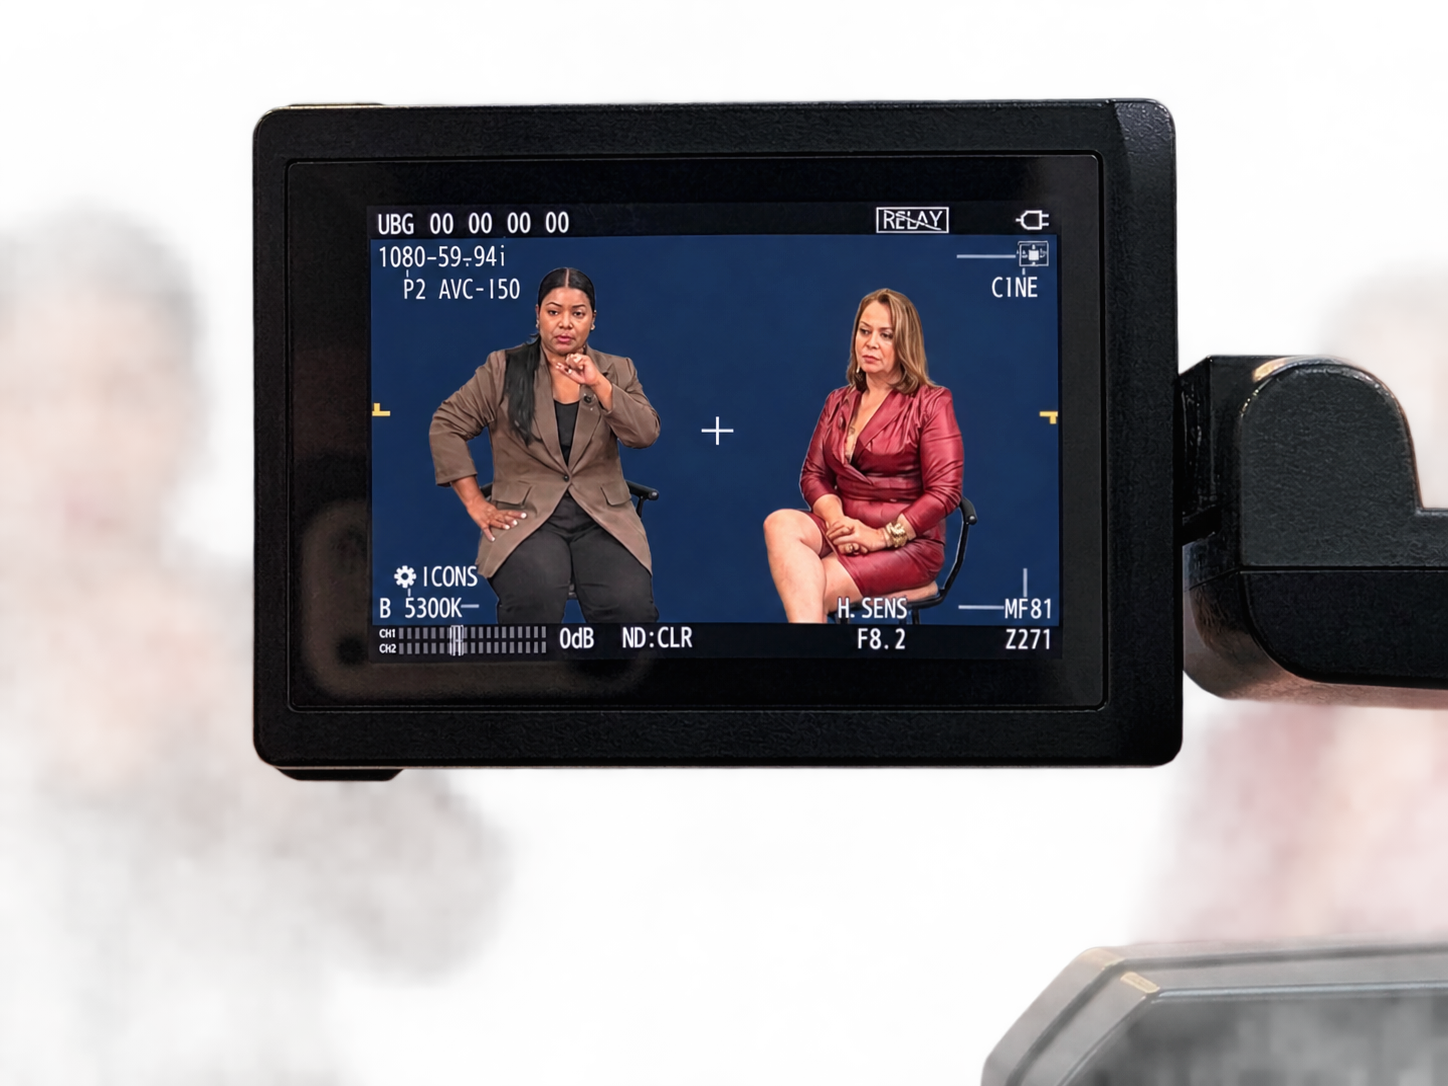
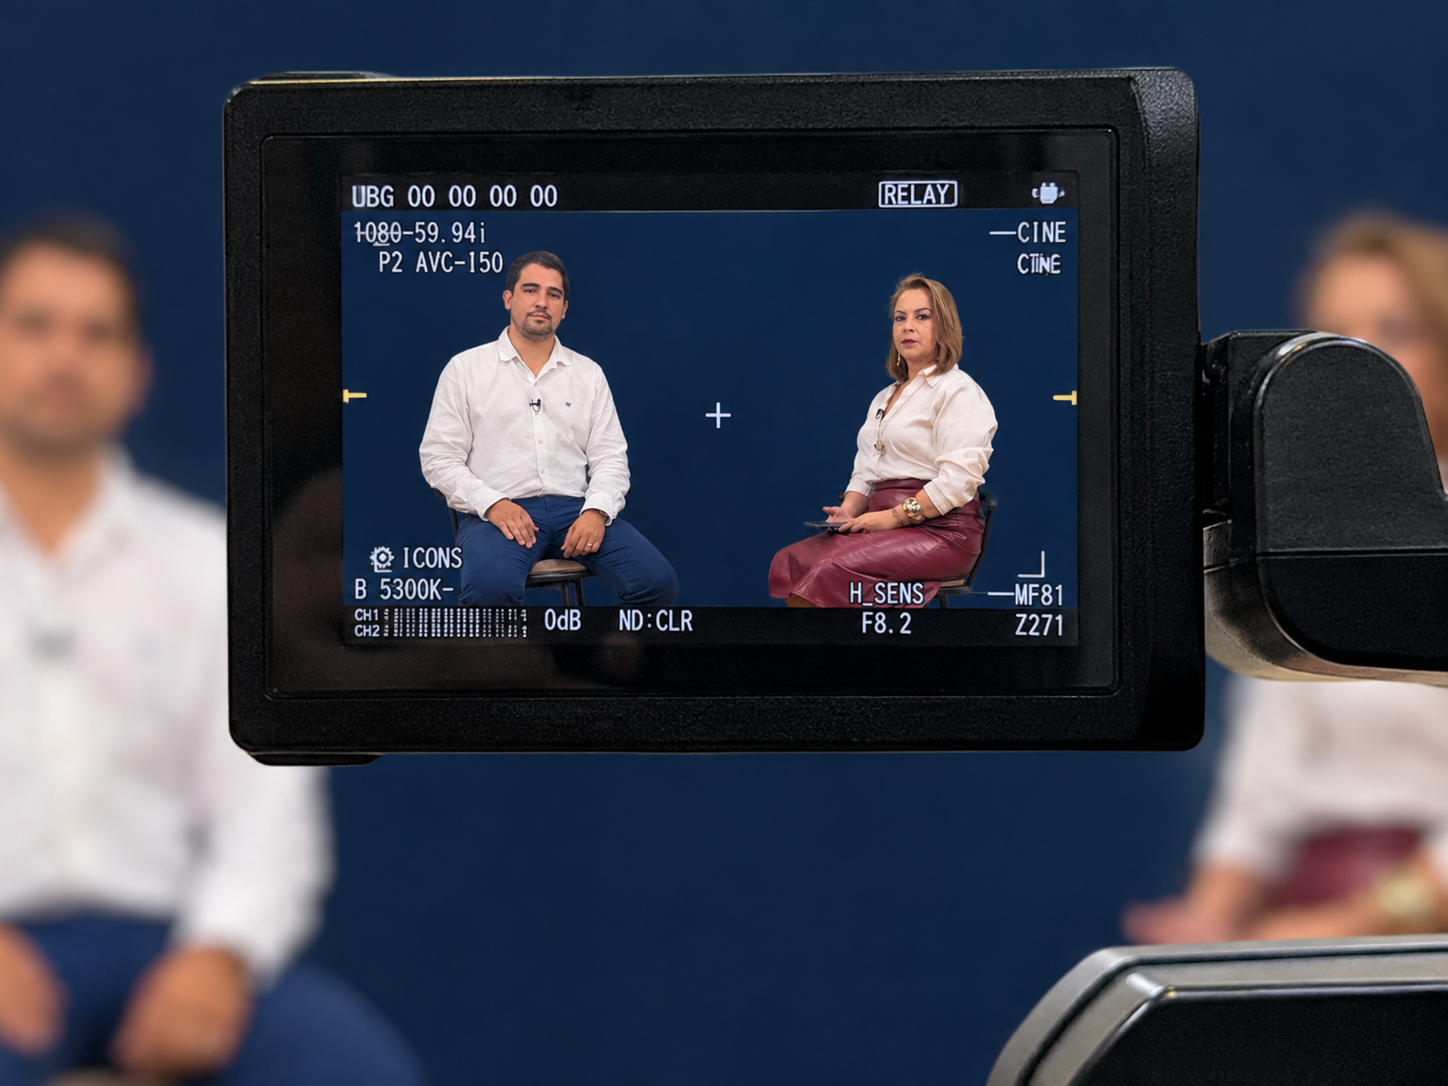
Rediseña la tarjeta de bienvenida de Converge
Achica la tarjeta de texto, agrega grabacion.png de fondo en la
tarjeta del logo y quita el anillo dorado decorativo.

diff --git a/src/features/blog/pages/Blog.jsx b/src/features/blog/pages/Blog.jsx
@@ -17,7 +17,7 @@ export default function Blog() {
       <section className="py-16 overflow-hidden" style={{ background: 'linear-gradient(135deg, #10294d 0%, #071426 55%, #0c0c0c 100%)' }}>
         <div className="max-w-7xl mx-auto px-4 sm:px-6 grid lg:grid-cols-5 gap-6 items-stretch">
           <div
-            className="lg:col-span-3 rounded-3xl p-8 sm:p-12 flex flex-col justify-center reveal relative overflow-hidden"
+            className="lg:col-span-3 rounded-3xl p-6 sm:p-8 flex flex-col justify-center reveal relative overflow-hidden"
             style={{
               backgroundImage: 'url("/assets/converge1.png")',
               backgroundSize: 'cover',
@@ -28,22 +28,22 @@ export default function Blog() {
             <div className="absolute inset-0" style={{ background: 'linear-gradient(135deg, rgba(16,41,77,0.45) 0%, rgba(7,20,38,0.4) 100%)' }} />
             <div className="relative">
             <p className="text-xs font-bold uppercase tracking-widest mb-3" style={{ color: GOLD }}>Converge</p>
-            <h1 className="text-4xl sm:text-5xl font-black mb-4 leading-tight" style={{ fontFamily: 'var(--font-display)' }}>
+            <h1 className="text-3xl sm:text-4xl font-black mb-3 leading-tight" style={{ fontFamily: 'var(--font-display)' }}>
               <span style={{ color: 'white' }}>¡Bienvenidos a</span><br />
               <span style={{ color: GOLD }}>Converge!</span>
             </h1>
-            <div className="w-16 h-0.5 mb-5 rounded-full" style={{ backgroundColor: GOLD, opacity: 0.6 }} />
-            <p className="text-sm sm:text-base leading-relaxed mb-5" style={{ color: 'rgba(255,255,255,0.88)' }}>
+            <div className="w-16 h-0.5 mb-4 rounded-full" style={{ backgroundColor: GOLD, opacity: 0.6 }} />
+            <p className="text-sm leading-relaxed mb-4" style={{ color: 'rgba(255,255,255,0.88)' }}>
               Nos alegra que se una a nuestra comunidad de información. En <span style={{ color: GOLD, fontWeight: 600 }}>Converge</span> estamos comprometidos a ofrecerle las <span style={{ color: GOLD, fontWeight: 600 }}>noticias más actuales, relevantes y confiables</span> del panorama empresarial, normativo e institucional, para mantenerlo siempre al tanto de lo que más importa.
             </p>
 
-            <div className="rounded-2xl p-4 mb-5 flex gap-3 items-start" style={{ backgroundColor: 'rgba(0,0,0,0.3)', border: '1px solid rgba(232,199,102,0.25)' }}>
+            <div className="rounded-2xl p-3 mb-4 flex gap-3 items-start" style={{ backgroundColor: 'rgba(0,0,0,0.3)', border: '1px solid rgba(232,199,102,0.25)' }}>
               <div className="w-9 h-9 rounded-full flex items-center justify-center shrink-0" style={{ border: `1.5px solid ${GOLD}` }}>
                 <svg width="17" height="17" viewBox="0 0 24 24" fill="none" stroke={GOLD} strokeWidth="2" strokeLinecap="round" strokeLinejoin="round">
                   <path d="M21 11.5a8.38 8.38 0 0 1-.9 3.8 8.5 8.5 0 0 1-7.6 4.7 8.38 8.38 0 0 1-3.8-.9L3 21l1.9-5.7a8.38 8.38 0 0 1-.9-3.8 8.5 8.5 0 0 1 4.7-7.6 8.38 8.38 0 0 1 3.8-.9h.5a8.48 8.48 0 0 1 8 8v.5z" />
                 </svg>
               </div>
-              <p className="text-sm sm:text-base leading-relaxed" style={{ color: 'rgba(255,255,255,0.88)' }}>
+              <p className="text-sm leading-relaxed" style={{ color: 'rgba(255,255,255,0.88)' }}>
                 Aquí no solo reportamos noticias: también fomentamos el <span style={{ color: GOLD, fontWeight: 600 }}>diálogo</span> y la <span style={{ color: GOLD, fontWeight: 600 }}>reflexión</span>. Queremos ser su fuente de información confiable y su espacio para el <span style={{ color: GOLD, fontWeight: 600 }}>intercambio de ideas</span>.
               </p>
             </div>
@@ -55,7 +55,7 @@ export default function Blog() {
                   <polygon points="12 2 15.09 8.26 22 9.27 17 14.14 18.18 21.02 12 17.77 5.82 21.02 7 14.14 2 9.27 8.91 8.26 12 2" />
                 </svg>
               </div>
-              <p className="text-sm sm:text-base leading-relaxed">
+              <p className="text-sm leading-relaxed">
                 <span style={{ color: 'rgba(255,255,255,0.88)' }}>Gracias por confiar en nosotros para mantenerlo informado.</span>
                 <span style={{ color: GOLD, fontWeight: 700 }}>¡Vamos a converger en la verdad y el conocimiento!</span>
               </p>
@@ -65,22 +65,13 @@ export default function Blog() {
 
           <div
             className="lg:col-span-2 rounded-3xl overflow-hidden min-h-65 reveal-scale relative flex items-center justify-center"
-            style={{ background: 'radial-gradient(ellipse 75% 65% at 50% 42%, #10294d 0%, #071426 55%, #020712 100%)' }}
+            style={{
+              backgroundImage: 'url("/assets/grabacion.png")',
+              backgroundSize: 'cover',
+              backgroundPosition: 'center',
+            }}
           >
-            {/* Glow ring */}
-            <div
-              className="absolute pointer-events-none"
-              style={{
-                width: '94%',
-                height: '76%',
-                top: '9%',
-                left: '3%',
-                borderRadius: '50%',
-                border: '1.5px solid rgba(232,199,102,0.55)',
-                boxShadow: '0 0 70px 12px rgba(232,199,102,0.3), inset 0 0 45px rgba(232,199,102,0.12)',
-                transform: 'rotate(-4deg)',
-              }}
-            />
+            <div className="absolute inset-0" style={{ background: 'radial-gradient(ellipse 75% 65% at 50% 42%, rgba(16,41,77,0.4) 0%, rgba(7,20,38,0.5) 55%, rgba(2,7,18,0.6) 100%)' }} />
             {/* Pedestal glow */}
             <div
               className="absolute pointer-events-none"
